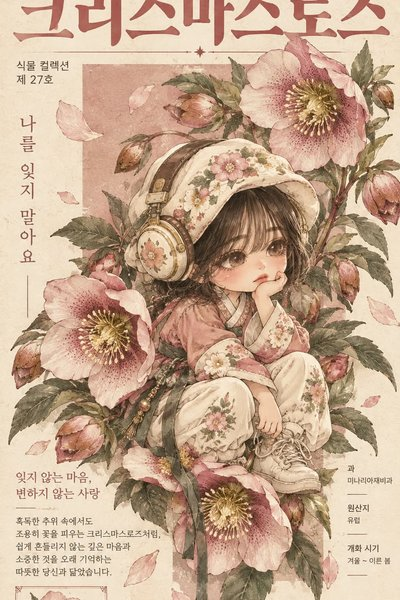
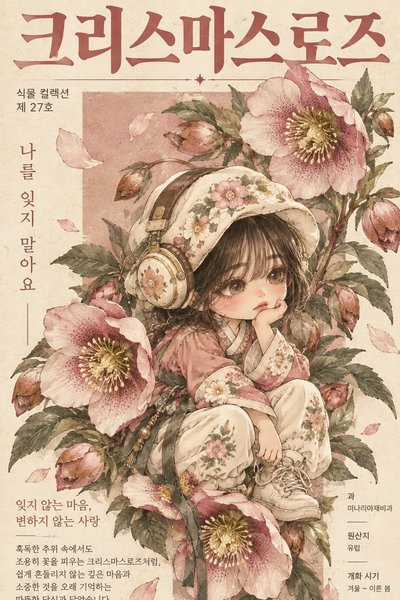
docs: 화이트 수트 프롬프트 및 결과 추가 (150번)
- 프롬프트 문서와 Gemini/GPT 결과 이미지 추가
- README 갤러리, 사이트 data.js, 썸네일 갱신
- 149번 썸네일을 포스터 제목이 보이도록 다시 생성

diff --git a/data.js b/data.js
@@ -1,5 +1,6 @@
 // 갤러리 목록. 새 항목은 맨 위에 한 줄 추가하고 thumbs/gpt/NN.jpg, thumbs/gemini/NN.jpg 썸네일(600x750)을 넣는다.
 window.GALLERY = [
+  {"n": 150, "name": "화이트 수트", "desc": "순백 수트와 실버 롱헤어, 황금 권총을 겨눈 세미실사 포트레이트", "dir": "화이트 슈트", "doc": "White_Suit_Golden_Pistol_Portrait_Prompt.md", "gemini": "제미나이.jpg", "gpt": "GPT.jpg", "prompt": "[세미실사 아트 – 화이트 수트 황금 권총 포트레이트 / 얼굴 합성용 템플릿]\n\n■ 업로드 사진 사용 규칙 (가장 중요)\n- 업로드한 사진은 얼굴 참고용으로만 사용한다.\n- 사진에서는 눈·코·입의 생김새만 가져온다.\n- 얼굴형, 피부, 헤어, 이마, 헤어라인은 사진에서 가져오지 않는다. 모두 아래 서술대로 그린다.\n- 눈동자 색은 사진을 따르지 않고 아래 서술대로 그린다.\n- 사진 속 머리 각도, 고개 기울기, 얼굴 방향, 시선은 절대 가져오지 않는다. 각도와 시선은 아래 포즈 서술을 따른다.\n- 표정은 사진을 따르지 않고, 아래 표정 서술대로 새로 그린다.\n- 얼굴을 제외한 구도, 각도, 헤어, 의상, 배경, 조명은 아래 서술에서 하나도 바뀌면 안 된다.\n- 인물은 항상 여성으로 그린다. 업로드 사진이 남자여도 눈·코·입의 특징만 살려 여성으로 그린다.\n- 업로드 사진에 안경이나 선글라스가 있어도 절대 그리지 않는다. 안경을 벗은 맨얼굴로 그리고, 눈은 안경 렌즈 왜곡 없이 원래 크기와 모양으로 그린다.\n\n■ 분위기\n- 스스로를 정의라고 굳게 믿는 심판자다. 하지만 그 정의는 오직 자기만의 기준이라 누구도 말릴 수 없다.\n- 흔들림 없는 확신, 망설임 없는 냉정함, 자비 없는 차분함이 느껴져야 한다.\n- 순백의 정장과 황금 권총이 성스러워 보이지만, 그래서 더 위험하고 섬뜩한 분위기다.\n\n■ 화풍\n- 실사 90%, 디지털 페인팅 10%의 실사에 가까운 세미실사다.\n- 얼굴, 피부, 머리카락, 원단은 실제 사진처럼 사실적으로 표현한다. 피부 모공과 결, 머리카락 한 올 한 올, 새틴 원단의 광택, 은색 장식과 황금 권총의 금속 반사까지 실사 수준으로 묘사한다.\n- 일러스트 느낌은 피부 표면의 아주 미세하게 매끈한 보정감에만 살짝 남긴다.\n- 하이엔드 화보, 시네마틱 인물 사진 퀄리티로 표현한다. 85mm 렌즈, 얕은 심도 느낌이다.\n- 인물은 화이트·실버에 안쪽 셔츠만 블랙이고, 배경은 어두운 차콜이다. 색 포인트는 황금색 눈동자와 황금 권총, 연한 코랄 립뿐이다.\n\n■ 구도\n- 세로 9:16 비율이다.\n- 머리끝부터 허벅지 중간까지 보이는 3/4 샷이다. 인물이 화면 중앙에 크게 들어온다.\n- 8.5등신 비율이다. 머리 하나 크기 대비 전신이 8.5배인 길고 늘씬한 모델 비율로 그린다.\n- 얼굴이 작게 나오는 구도지만, 얼굴을 처음부터 작게 그리지 않는다. 얼굴을 크고 정밀하게 완성한 뒤 비율 그대로 축소해 8.5등신에 맞게 배치한다. 축소된 뒤에도 이목구비가 또렷해야 한다.\n\n■ 체형\n- 키가 크고 다리가 아주 긴 8.5등신 여성 체형이다.\n- 볼륨 있는 글래머 몸매다. 풍만한 가슴, 잘록한 허리, 둥글게 이어지는 골반과 허벅지 곡선을 강조한다.\n- 조끼가 가슴 볼륨을 따라 몸에 딱 맞게 핏되고, 허리는 잘록하게 조여 굴곡이 또렷하게 드러난다.\n- 슬랙스는 골반과 허벅지 라인을 따라 매끈하게 떨어진다.\n- 목은 길고 가늘며, 어깨와 팔은 가늘고 여성스럽다.\n\n■ 포즈\n- 정면을 향해 서 있다. 몸통은 아주 살짝 비스듬하다.\n- 화면 왼쪽 팔(인물의 오른팔)을 보는 사람 쪽으로 곧게 뻗어 황금 권총을 한 손으로 겨눈다. 총구가 정면의 보는 사람을 향한다.\n- 권총을 쥔 손은 원근감으로 살짝 크게 보이며, 검지는 방아쇠울 옆에 곧게 펴서 걸친다. 손가락은 다섯 개로 자연스럽고 정확하게 그린다.\n- 다른 팔은 몸 옆으로 자연스럽게 내리고 손끝을 가볍게 편다.\n- 고개는 정면에서 아주 살짝 기울이고 턱을 약간 든다.\n- 시선은 권총 너머로 카메라(보는 사람)를 똑바로 응시한다.\n\n■ 표정\n- 눈꺼풀을 살짝 내린 차갑고 흔들림 없는 눈빛이다.\n- 입꼬리만 아주 옅게 올라간 평온한 미소다. 자신이 옳다고 확신하는 사람의 여유다.\n- 분노나 광기 없이 담담한데, 그 담담함이 오히려 섬뜩하다.\n\n■ 눈\n- 녹인 금처럼 깊고 선명한 황금색 눈동자다. 빛을 받아 은은하게 빛나고, 홍채에 가는 금빛 결이 보인다.\n\n■ 메이크업\n- 창백하고 투명한 피부톤\n- 은빛이 도는 은은한 아이섀도와 가는 아이라인\n- 연한 코랄 립, 촉촉한 광택\n\n■ 헤어\n- 허리 아래까지 내려오는 아주 긴 실버화이트 머리다. 차분한 생머리에 끝만 살짝 흩어진다.\n- 눈썹을 살짝 덮는 가벼운 앞머리와 얼굴 양옆으로 길게 내려오는 옆머리가 있다.\n- 바람에 머리카락이 양옆과 뒤로 넓게 흩날린다.\n- 머리카락은 실제 모발처럼 윤기와 잔머리가 살아 있고, 빛을 받은 부분은 은색으로 반짝인다.\n\n■ 무기\n- 황금색 자동 권총이다. 슬라이드와 몸체 전체가 광택 나는 금으로 되어 있다.\n- 슬라이드 옆면에 섬세한 덩굴·십자 문양 인그레이빙이 새겨져 있다.\n- 손잡이는 하얀 진주빛 그립이다.\n- 실제 금속처럼 무게감 있고 날카로운 반사광이 맺힌다.\n\n■ 액세서리\n- 양쪽 귀에 길게 늘어지는 은색 십자가 모양 드롭 귀걸이를 한다. 실제 금속처럼 반짝인다.\n- 얼굴에는 안경 등 어떤 액세서리도 착용하지 않는다.\n\n■ 의상 (화이트 수트 + 블랙 셔츠 + 실버 장식)\n- 검은 드레스 셔츠: 뾰족한 칼라, 맨 위 단추까지 채움, 은은한 광택의 실크 질감. 하얀 조끼와 재킷 사이로 검은 칼라와 가슴 부분이 선명하게 대비된다.\n- 은회색 실크 넥타이: 은색 십자별 모양 타이핀을 꽂음\n- 하얀 조끼: 몸에 딱 맞는 크롭 기장, 가장자리에 은색 파이핑, 은색 둥근 금속 단추 4개, 양옆 허리 부분에 은색 필리그리 금속 장식, 조끼 밑단과 바지 사이로 허리 맨살이 아주 살짝 보임\n- 하얀 롱 재킷: 앞을 연 채로 입음, 무릎 근처까지 오는 긴 코트 기장, 라펠과 가장자리에 은색 파이핑, 어깨와 가슴 양쪽에 은색 별·십자 문장 자수, 소매 끝에 은색 띠 장식 두 줄\n- 허리: 하얀 가죽 벨트, 은색 별 모양 장식 버클\n- 하의: 하이웨이스트 하얀 슬랙스, 앞 주름이 선명함\n- 수트 원단은 광택 있는 새틴 질감이다.\n\n■ 배경\n- 장식이나 사물이 전혀 없는 단순한 배경이다.\n- 짙은 차콜에서 가장자리로 갈수록 블랙이 되는 부드러운 그라데이션이다.\n- 인물 뒤쪽만 아주 은은하게 밝아 하얀 인물이 어둠 속에서 떠오르듯 보인다.\n\n■ 조명\n- 정면 위에서 오는 차갑고 부드러운 흰빛 키라이트다.\n- 하얀 의상과 실버 헤어가 어둠 속에서 은은하게 빛나 보인다.\n- 머리카락과 어깨 윤곽에 은은한 흰빛 림라이트를 준다.\n- 황금 권총과 황금 눈동자에 작고 선명한 하이라이트가 맺힌다.\n- 얼굴 아래쪽과 목에 옅은 그림자를 드리워 차가운 긴장감을 더한다.\n\n■ 금지\n- 안경, 선글라스, 안경 자국\n- 하얀 셔츠\n- 마법진, 빛 입자, 별 장식 등 배경 속 사물이나 효과\n- 사진 속 각도·표정·헤어·눈동자 색 반영\n- 얼굴을 처음부터 작고 뭉개지게 그리기\n- 머리가 큰 비율, 짧은 다리\n- 마르고 평평한 체형, 남성적인 어깨와 체형\n- 손가락 개수 오류, 뒤틀린 손, 총을 잘못 쥔 손\n- 활짝 웃는 표정, 광기 어린 표정, 화난 표정\n- 애니메이션·만화 느낌, 플라스틱 같은 매끈한 피부, 과한 일러스트 붓 터치\n- 피, 상처, 텍스트, 로고, 워터마크"},
   {"n": 149, "name": "나의 꽃 요정", "desc": "나에게 어울리는 꽃과 꽃말의 식물 도감풍 한복 미니미 포스터", "dir": "나의 꽃요정", "doc": "My_Flower_Botanical_Poster_Hanbok_Minimi_Prompt.md", "gemini": "제미나이.jpg", "gpt": "GPT.jpg", "prompt": "[작업 순서]\n\n1. 지금까지 나눈 대화, 저장된 기억, 나에 대해 알고 있는 모든 정보(성격, 직업, 취미, 관심사, 말투, 가치관, 생활 패턴)와 업로드한 사진의 인상을 종합해서 분석한다.\n2. 분석 결과로 나와 가장 어울리는 꽃 한 가지와 그 꽃의 꽃말을 정한다.\n- 한복 차림, 동양풍 화풍, 한글 이름 표기 규칙은 꽃 선택에 전혀 영향을 주지 않는다. 한글 이름 규칙은 표기 방법일 뿐이며, 꽃은 전 세계 모든 꽃 중에서 고른다.\n- 가장 먼저 떠오르는 흔한 꽃을 기본값으로 고르지 말 것\n- 동양 전통 그림에 자주 등장하는 꽃으로 쏠리지 말 것\n- 꽃을 고르기 전에 계절, 원산지, 색이 서로 다른 후보 5개를 속으로 먼저 떠올린 뒤, 분석 결과와 가장 구체적으로 맞는 하나를 고른다.\n- 꽃말은 실제로 알려진 꽃말을 사용하고, 성실함, 인내, 고결함처럼 누구에게나 해당되는 무난한 의미보다 이 사람만의 구체적인 특징과 맞는 꽃말을 우선한다.\n- 꽃 이름은 반드시 한국에서 쓰는 한글 이름으로 표기한다. 외국어 이름을 소리 나는 대로 옮긴 표기(외래어 표기)는 사용하지 않는다.\n- 순우리말 이름이나 한국 고유 이름이 있는 꽃은 반드시 그 이름을 쓰고, 한글 이름이 전혀 없는 꽃일 때만 외래어 표기를 허용한다. 과 이름도 같은 규칙으로 한글 이름을 쓴다.\n3. 대화창에 아래 내용을 먼저 짧게 보여준다.\n- 선택한 꽃(한글 이름) / 꽃말 / 나와 어울리는 이유 2~3줄\n4. 질문하지 말고 바로 아래 포스터를 이미지로 생성한다.\n\n[업로드 사진 사용 규칙 - 매우 중요]\n\n- 업로드 사진에서는 눈, 코, 입의 생김새만 가져온다.\n- 얼굴형, 피부, 헤어, 이마와 헤어라인은 사진에서 가져오지 않는다.\n- 사진 속 고개 기울기, 얼굴 방향, 시선, 표정은 절대 가져오지 않는다. 각도와 표정은 아래 서술대로 새로 그린다.\n- 사진 속 인물이 안경을 쓰고 있으면 안경만 유지한다.\n- 사진 속 옷, 배경, 소품은 사용하지 않는다.\n- 미니미로 바뀌어도 눈·코·입의 특징이 살아 있어 본인임을 알아볼 수 있게 한다.\n\n[화풍]\n현대 한국 일러스트 화풍. 가늘고 섬세한 갈색 먹선으로 윤곽과 꽃잎 결, 옷 주름을 그리고, 그 위에 채도를 낮춘 바랜 수채 물감을 얇게 입힌 그림. 빈티지 종이 위에 그린 듯한 은은한 색 바램과 종이 질감. 강한 명암 없이 평면적이고 부드러운 음영. 옷의 문양과 꽃잎 결은 가는 선으로 촘촘하게 묘사. 3D, 실사, 반실사 금지.\n\n[미니미 인물 - 고정]\n\n- 2.5등신 정도의 아담한 어린아이 체형 미니미, 성별과 관계없이 같은 차림\n- 헤어: 검은색 짧은 단발, 앞머리가 이마를 가린 일자 뱅, 모자 아래로 살짝 보임\n- 머리: 둥근 바가지형 천 모자, 크림색 바탕에 선택한 꽃 문양 자수\n- 모자 위로 둥근 레트로 헤드폰을 쓰고 있음, 크림색과 금빛 이어컵, 갈색 가죽 밴드\n- 저고리: 넉넉한 품의 짧은 저고리, 색은 선택한 꽃의 색을 바랜 수채 톤으로 낮춘 색, 크림색 동정과 깃, 소매 끝은 꽃 문양 천으로 덧댐\n- 바지: 통이 넓은 크림색 한복 바지, 발목에서 오므려짐, 무릎에 꽃 문양 덧댐\n- 허리: 꽃 문양 천 허리띠, 짙은 녹회색 긴 끈이 늘어짐\n- 신발: 낡은 크림색 하이탑 운동화, 끈 묶음, 밑창에 살짝 때 탄 느낌\n- 포즈: 몸은 오른쪽을 향해 쪼그려 앉아 있고, 한쪽 팔꿈치를 무릎에 올려 손등에 턱을 괸 자세. 다른 손은 아래로 내려 운동화 끈 또는 늘어진 끈을 가볍게 쥠\n- 얼굴 각도: 얼굴이 잘 보이도록 오른쪽을 향한 3/4 측면, 시선은 살짝 아래로\n- 표정: 무심하고 차분하게 생각에 잠긴 표정, 입은 다물고 볼에 옅은 홍조\n\n[포스터 전체 구성]\n세로형 포스터(9:16 비율). 따뜻한 아이보리 크림색 종이 배경. 포스터 안의 모든 글자는 한글로만 작성한다. 영어, 알파벳, 학명, 라틴어는 절대 넣지 않는다.\n\n[색상]\n포인트 컬러는 선택한 꽃의 색을 깊고 차분하게 낮춘 색. 제목 글자, 중앙 사각 블록, 장식선, 액자 테두리, 저고리 색을 모두 이 계열로 통일. 꽃잎은 바랜 수채 톤, 잎은 탁한 녹회색.\n\n[레이아웃 - 위치 고정]\n\n1. 상단: 포스터 폭을 가득 채우는 큰 굵은 한글 명조체 제목, 선택한 꽃의 한글 이름(외래어 표기 금지). 길면 두 줄. 포인트 컬러.\n2. 제목 아래 왼쪽: 작은 고딕체 두 줄 — \"식물 컬렉션\" / \"제 ○호\"\n3. 중앙: 포인트 컬러를 연하게 한 단색 사각형 블록이 세로로 길게 놓임.\n4. 꽃과 미니미: 선택한 꽃이 핀 줄기(또는 가지)가 왼쪽 아래에서 오른쪽 위로 뻗고, 크게 핀 꽃 여러 송이와 봉오리, 잎이 사각 블록 밖까지 넘쳐 흐르듯 배치. 꽃의 모양, 꽃잎 수, 잎 모양, 줄기 형태는 선택한 꽃의 실제 생김새를 정확히 따른다. 미니미는 화면 중앙의 줄기 위(또는 꽃 사이)에 쪼그려 앉아 있고, 미니미 주변과 발밑을 큰 꽃송이들이 감싼다. 꽃은 미니미보다 크게 그려 꽃 속의 작은 아이처럼 보이게 하되, 미니미의 얼굴이 포스터에서 가장 먼저 눈에 띄게 한다. 꽃잎 몇 장이 공중에 흩날림.\n5. 왼쪽 세로 문구: 왼쪽 가장자리에 세로로 회전된 기울임 명조체로 꽃말 한 줄, 아래 짧은 가로선.\n6. 왼쪽 아래 설명 블록:\n- 작은 고딕체 두 줄: 꽃말을 압축한 짧은 문구\n- 짧은 가로선\n- 명조체 본문 4~5줄: 꽃말의 의미와 그것이 나와 닮은 점을 한글로 짧게\n7. 오른쪽 정보 블록 (작은 고딕체, 항목 사이 짧은 가로선):\n- 과: (한글 이름) / 원산지: (한글) / 개화 시기: (한글 계절)\n8. 왼쪽 맨 아래: 포인트 컬러 얇은 테두리의 작은 정사각형 액자 안에 같은 화풍으로 그린 꽃 한 송이.\n9. 오른쪽 맨 아래: 자간을 넓힌 작은 명조체 두 줄 — 꽃말을 시처럼 줄인 문구 / 더 작은 글씨로 \"○○ 에디션\" (○○에는 내 이름)\n\n[글자 품질]\n\n- 모든 한글은 맞춤법이 정확하고 자모가 깨지지 않게 또렷하게\n- 문구는 짧게 유지\n- 글자가 미니미 얼굴이나 꽃과 겹치지 않게 배치\n\n[금지]\n\n- 영어, 알파벳, 학명 금지\n- 한글 이름이 있는 꽃을 외래어 표기로 쓰는 것 금지\n- 사진 속 고개 각도, 시선, 표정, 헤어, 옷 반영 금지\n- 실사, 3D, 반실사 금지\n- 미니미 외 다른 인물 등장 금지"},
   {"n": 148, "name": "스테인드글라스", "desc": "고딕 대성당 스테인드글라스 속 중세 인물과 바닥에 떨어진 색유리 빛", "dir": "스테인드글라스", "doc": "Gothic_Stained_Glass_Medieval_Figure_Prompt.md", "gemini": "", "gpt": "GPT.jpg", "prompt": "첨부한 사진 속 인물(또는 동물)을 12~13세기 고딕 대성당 스테인드글라스에 그려진 중세 인물로 만들고, 그 창문을 통과한 빛이 성당 바닥에 떨어지는 장면을 그려줘.\n\n[사진에서 가져올 것과 가져오지 않을 것]\n- 가져오는 것: 눈·코·입의 생김새, 얼굴형, 머리색, 성별, 대략적인 나이, 안경 유무\n- 가져오지 않는 것: 사진 속 옷, 배경, 포즈, 고개 기울기와 방향, 시선, 표정, 조명\n- 표정은 사진을 따르지 않고, 중세 성화 인물 특유의 고요하고 경건한 표정으로 새로 그린다.\n\n[닮음 – 가장 중요]\n- 그리기 전에 사진 속 얼굴을 먼저 꼼꼼히 분석한다. 눈꼬리 방향, 쌍꺼풀 유무와 모양, 눈 크기와 두 눈 사이 간격, 눈썹 모양과 굵기, 콧대 높이와 코끝·콧볼 너비, 인중 길이, 입술 두께와 입 너비, 광대와 턱선, 얼굴 길이와 너비 비율을 파악한다.\n- 분석한 특징을 그리자이유 선으로 그대로 옮긴다. 중세 화풍으로 단순화하더라도 이 특징들의 형태와 비율은 바꾸지 않는다.\n- 사진 속 사람보다 예쁘게 다듬거나, 눈을 키우거나, 얼굴을 갸름하게 바꾸지 않는다. 흔한 미인 얼굴이나 애니메이션 얼굴로 만들지 않는다.\n- 얼굴은 처음부터 작게 그리지 않는다. 얼굴을 크게 그려 이목구비를 정확히 완성한 뒤, 비율을 그대로 유지한 채 인물 크기에 맞게 축소한다.\n- 그리자이유는 얼굴에만 더 세밀하게 쓴다. 눈두덩, 콧대 옆, 입꼬리, 턱 아래에 얇은 음영 붓터치를 넣어 입체와 특징이 드러나게 한다.\n- 안경을 쓴 인물이면 사진 속 안경테 모양에 가까운 중세 리벳식 둥근 안경을 씌운다.\n\n[전체 장면]\n- 세로 9:16 구도로, 어두운 고딕 대성당 내부를 정면에서 바라본다.\n- 화면 위쪽 약 3분의 2는 거대한 고딕 아치형 스테인드글라스 창문이다. 꼭대기에는 둥근 장미창이 있고, 그 아래로 가운데 넓은 창과 양옆의 좁은 창이 이어진다.\n- 창문 양옆에는 붉은 사암으로 된 묶음 기둥과 뾰족 아치가 있다. 벽은 그늘 속에 묻혀 어둡다.\n- 화면 아래쪽 약 3분의 1은 오래되어 금이 가고 닳은 큰 석판 바닥이다.\n\n[창문 속 중세 인물]\n- 사진 속 인물의 인상과 분위기를 보고, 중세 시대에 어떤 신분과 역할의 인물이었을지 AI가 직접 정한다.\n- 그 신분에 맞는 중세 복식, 머리 장식, 손에 든 상징물을 갖춘 무릎 위 입상으로, 가운데 넓은 창을 가득 채운다. 얼굴이 창문 안에서 충분히 크게 보여야 한다.\n- 인물은 정면을 향해 똑바로 서 있고, 자세는 경건하고 정적이다. 머리 뒤에는 둥근 금빛 후광이 있다.\n- 피부는 연한 살구색·아이보리 유리이고, 눈, 눈썹, 코, 입, 얼굴 윤곽, 옷 주름은 갈색·검은 안료로 붓으로 그린 그리자이유 선으로 표현한다.\n- 양옆 좁은 창은 중세 고딕 창의 원형·사엽형 메달리온 무늬와 덩굴무늬로 채운다.\n- 모든 색 영역은 독립된 색유리 조각이고, 조각 사이는 굵고 일정한 검은 납선으로 연결된다. 납선은 얼굴의 이목구비를 가로지르지 않고 얼굴 윤곽선을 따라서만 지나간다.\n- 한 조각 안에는 그라데이션이 없고, 손으로 만든 중세 유리의 기포, 물결, 고르지 않은 두께가 보인다.\n- 색은 중세 유리의 깊은 코발트 블루와 루비 레드를 중심으로, 에메랄드 그린, 앰버 옐로, 자줏빛을 더한다.\n\n[빛줄기]\n- 창문 뒤 높은 곳에서 강한 오후 햇살이 비스듬히 내려와 유리가 안에서부터 타오르듯 빛난다.\n- 성당 안 공기 중의 먼지 때문에 창문에서 카메라 쪽 바닥으로 내려오는 굵은 빛줄기가 선명하게 보이고, 빛줄기는 유리 색을 머금고 있다.\n\n[바닥에 떨어진 빛]\n- 바닥에 맺힌 빛 그림은 창문 그림과 위아래가 반대로 뒤집혀 있다. 창문 위쪽(장미창, 후광, 머리)의 빛은 창문에서 먼 곳, 즉 카메라 가까운 화면 아래쪽에 떨어진다. 창문 아래쪽(인물의 무릎, 옷자락)의 빛은 창문 바로 앞 바닥에 떨어진다.\n- 카메라에서 보면 바닥 위 인물은 거꾸로 누워 있는 모습이다. 후광과 얼굴이 화면 맨 아래 가까이 있고, 옷자락이 창문 쪽을 향한다.\n- 좌우는 뒤집히지 않는다. 창문 왼쪽의 빛은 바닥 왼쪽에, 오른쪽의 빛은 바닥 오른쪽에 떨어진다.\n- 바닥 빛 그림은 원근 때문에 카메라 쪽으로 갈수록 길게 늘어나고 커진다. 가장자리는 살짝 부드럽게 번지지만, 후광과 인물 실루엣, 얼굴 위치는 알아볼 수 있다.\n- 빛은 석판의 금과 이음새를 따라 끊기고 번진다. 가장 밝은 부분은 하얗게 날아갈 정도로 강하다.\n\n[분위기와 화질]\n- 성당 내부는 어둡고, 빛은 창문, 빛줄기, 바닥에만 집중된다. 명암 대비가 강하다.\n- 성당, 빛, 바닥은 고해상도 실사 사진처럼 그리고, 창문 속 인물만 중세 스테인드글라스다.\n\n[금지]\n- 사진 속 얼굴과 다른 사람처럼 보이는 얼굴, 미화된 얼굴, 애니메이션풍 큰 눈 금지\n- 현대 옷, 현대 헤어스타일 금지\n- 창문 속 인물을 실사 사람이나 현대 일러스트처럼 그리는 것 금지\n- 바닥 빛 그림이 창문 그림과 같은 방향으로 바로 서 있는 것 금지\n- 성당 안에 사람 배치 금지\n- 글자, 서명, 워터마크 금지"},
   {"n": 147, "name": "동화 주인공 아이돌", "desc": "인상에 맞는 동화 주인공을 K-pop 아이돌로 재해석한 앨범 콘셉트 포토", "dir": "아이돌공주", "doc": "Fairytale_Idol_Concept_Photo_Prompt.md", "gemini": "", "gpt": "GPT.jpg", "prompt": "[Purpose]\nIdentify which fairytale protagonist the person in the uploaded face photo matches, then reinterpret that protagonist as a K-pop idol in stage costume and create one K-pop idol concept photo with a designed text layout that shows the result and the reason for the selection. Use the uploaded photo only as a face reference; everything else must be newly created exactly as described below.\n\n[Output Rule]\n\n- Do not write any explanation in the chat. Generate the image immediately without asking for confirmation.\n- The selection result and reason must appear only inside the image, following the text layout section below.\n\n[Step 1: Choose the Fairytale Protagonist]\n\n- Analyze the person's eye shape, eye corners, eyebrow line, nose and mouth shape, facial lines, overall impression, vibe, gender, and age range in concrete detail.\n- Do NOT use the person's hair color or skin tone as a reason for the choice. Hair and outfit will be completely redesigned anyway, so dark hair or fair skin must never lead to a specific protagonist.\n- Based on the facial-feature analysis only, mentally list at least 10 candidate protagonists of the matching gender, each from a different fairytale. At least half of the candidates must come from fairytales outside the Grimm, Perrault, and Andersen collections, drawn from many different countries and regions.\n- From the candidates, pick the one whose connection to the analyzed facial features and impression is the most specific. Do not choose because a character is \"the most famous,\" \"the safest choice,\" or \"easy to turn into an idol outfit.\"\n- Completely exclude Snow White and Little Red Riding Hood from the candidates.\n- Do not limit the choice to princess characters.\n- If the person is male, choose a male protagonist; if female, a female protagonist. Male subjects must be rendered in the same style (K-pop idol concept photo) with the same level of polish.\n\n[Step 2: Recognizability - Critical]\n\n- A viewer must recognize which protagonist this is at a glance, even with the title text covered.\n- Before designing, identify the protagonist's most widely recognized visual signatures: (a) signature color combination and where each color sits on the outfit, (b) signature hairstyle, hair length, and hair color, (c) signature headwear or hair ornament, (d) signature prop, (e) key story motifs (objects, creatures, places).\n- Apply every one of them:\n- The outfit's color palette must follow the signature color combination, with each color in the same position (top, bottom, outer layer, accents) as in the widely known image. Do not replace it with a different palette.\n- Keep the signature hairstyle shape, length, and hair color, restyled with an idol-level glossy finish. Do not change it into a different hairstyle.\n- The signature headwear or hair ornament must be worn and clearly visible.\n- The signature prop must be held in the hand, clearly visible near chest height.\n- The background set must show at least two key story motifs clearly enough to be identified.\n- Generic decorations unrelated to this protagonist must not dominate the image.\n\n[Step 3: Costume Rules - K-pop Idol Stage Outfit]\n\n- Do not dress the person in the original fairytale costume. Keep the signature colors, color placement, and motifs, and rebuild them with the structure of a modern K-pop idol stage outfit.\n- No ball gowns, no full-length princess skirts, no lolita-style layered frill skirts. Use idol stage-costume construction: structured cropped jackets or corset tops, short skirts or tailored shorts or pants, harness or belt details, and stage boots.\n- Polish level as if made by a real idol stylist: layering, structured silhouettes, intricate embroidery, metal hardware details, and materials that sparkle under stage lights.\n- Women follow a girl-group stage outfit silhouette; men follow a boy-group stage outfit silhouette.\n- Keep exposure modest, at the level of a typical TV music show stage. No garter straps, no lingerie-like elements, no deep necklines.\n\n[Hair and Makeup]\n\n- Hair follows the Recognizability rules above, with a neat, glossy idol styling finish.\n- K-pop idol stage makeup: defined eyeliner, subtle glitter under the eyes, clear and luminous skin, glossy lips. Male subjects also get male idol stage makeup.\n\n[Face Handling Rules - Critical]\n\n- Take only the shapes of the eyes, nose, and mouth from the uploaded photo.\n- Do not take the face shape, skin, hair, forehead, or hairline from the photo.\n- Never copy the head or face angle from the photo (head tilt, face direction, gaze). Draw the angle and gaze fresh according to the composition section below.\n- Do not copy the facial expression from the photo either; draw it fresh according to the expression section below.\n- If the person wears glasses in the photo, remove the glasses completely and draw a bare face without glasses. Leave no glasses marks, nose-pad marks, or lens reflections, and draw the eyes in their true shape without any size distortion caused by lenses.\n- Do not draw the face small from the start. Complete the face large and sharp first, then scale it down proportionally onto a 9-head-tall idol body. The features must remain crisp and not blurred after scaling.\n\n[Composition and Pose]\n\n- Vertical frame, three-quarter shot showing from above the knees up.\n- The person stands upright, slightly right of center, leaving clean space on the left side and at the bottom for the text layout. Do not lean, crouch, or sit.\n- The body is angled slightly from the front; the head is straight with no tilt, and the face and gaze look directly at the camera.\n- One hand holds the signature prop at chest height; the other hand rests on the waist.\n- Place the face so it is the first thing the eye is drawn to. No text may overlap the face, the upper body, or the prop.\n\n[Expression]\n\n- A confident idol concept-photo expression: lips closed with a subtle smile and slightly raised mouth corners, and a clear, direct gaze into the camera. No parted lips, no pouting.\n\n[Background and Lighting]\n\n- An idol album concept photo set built from the chosen fairytale's world and its key story motifs. It should look like a designed set, not a real location.\n- Colored lighting using the protagonist's signature colors, light haze, and clean beauty lighting on the face.\n- Keep the background slightly softer than the person, but keep the story motifs identifiable.\n\n[Text Layout in Image - Album Concept Card Style]\nDesign the text like a K-pop album concept photo or teaser poster: clean, minimal, and stylish, with generous spacing. Use only the following four text elements, in these positions:\n\n1. Top left, small: the label \"FAIRYTALE IDOL\" in thin, widely letter-spaced sans-serif capitals, white or the key color.\n2. Left side, large: the chosen protagonist's name in English as the main title, in an elegant bold serif or modern display font, in the protagonist's signature color with a subtle glow. It may be stacked on two lines.\n3. Directly under the title, small: the fairytale title in Korean, in a clean Korean sans-serif font.\n4. Bottom, on a thin semi-transparent dark band spanning the width: the selection reason as one short Korean sentence of no more than 25 characters, in a clean Korean sans-serif font, white, centered. The sentence must mention a facial feature or impression, never hair color or skin tone.\n\n- Add one thin decorative line or small star or sparkle mark near the title as a design accent, nothing more.\n- All Korean text must be spelled correctly, with sharp, legible letters and no broken or invented characters.\n- No other text, logos, barcodes, or watermarks.\n\n[Style and Quality]\n\n- A high-resolution photorealistic image that looks like a real K-pop idol album jacket or concept teaser poster.\n- Smooth retouching, sharp focus, and color grading at the level of a high-end fashion editorial.\n- The text layout must look like professional graphic design that blends with the photo's color mood."},

diff --git a/index.html b/index.html
@@ -351,7 +351,7 @@ dialog::backdrop { background: rgba(22, 21, 19, 0.72); backdrop-filter: blur(4px
 </dialog>
 
 <!-- data.js를 고치면 v 값을 올려야 브라우저가 새로 받는다 -->
-<script src="./data.js?v=67"></script>
+<script src="./data.js?v=68"></script>
 <script>
 (function () {
   var items = window.GALLERY || [];

diff --git a/화이트 슈트/White_Suit_Golden_Pistol_Portrait_Prompt.md b/화이트 슈트/White_Suit_Golden_Pistol_Portrait_Prompt.md
@@ -1,0 +1,153 @@
+# 화이트 수트 황금 권총 세미실사 포트레이트 프롬프트
+
+## 1. 개요 및 아트 디렉팅 가이드
+
+- **컨셉**: 순백의 수트에 실버화이트 롱헤어, 황금색 눈동자의 여성이 보는 사람을 향해 황금 권총을 겨누는 3/4 샷. 어두운 차콜 배경 위에 화이트·실버와 황금색만 남긴 세미실사 포트레이트 (세로 9:16)
+- **업로드 사진 사용 규칙 (가장 중요)**:
+  - 사진에서는 눈·코·입의 생김새만 가져오고, 얼굴형·피부·헤어·눈동자 색·각도·시선·표정은 프롬프트 서술대로 새로 그림
+  - 인물은 항상 여성으로 그림. 사진이 남성이어도 눈·코·입의 특징만 살려 여성으로 표현
+  - 사진에 안경이나 선글라스가 있어도 그리지 않고 맨얼굴로 표현
+- **분위기**: 스스로를 정의라고 굳게 믿는 심판자. 흔들림 없는 확신과 자비 없는 차분함, 성스러워 보여서 더 위험하고 섬뜩한 느낌
+- **화풍**:
+  - 실사 90%, 디지털 페인팅 10%의 실사에 가까운 세미실사
+  - 피부 결, 머리카락 한 올, 새틴 원단의 광택, 은색 장식과 황금 권총의 금속 반사까지 실사 수준으로 묘사
+  - 하이엔드 화보 퀄리티, 85mm 렌즈의 얕은 심도 느낌
+- **구도 & 체형**:
+  - 머리끝부터 허벅지 중간까지의 3/4 샷, 8.5등신의 길고 늘씬한 모델 비율
+  - 얼굴을 크고 정밀하게 완성한 뒤 비율 그대로 축소해 배치하여, 작게 나와도 이목구비가 또렷하게 유지
+- **포즈 & 표정**:
+  - 한 팔을 보는 사람 쪽으로 곧게 뻗어 황금 권총을 겨누고, 검지는 방아쇠울 옆에 곧게 펴서 걸침
+  - 턱을 약간 들고 권총 너머로 카메라를 똑바로 응시
+  - 눈꺼풀을 살짝 내린 차가운 눈빛과 입꼬리만 아주 옅게 올라간 평온한 미소
+- **눈 & 헤어 & 메이크업**: 녹인 금처럼 깊고 선명한 황금색 눈동자, 허리 아래까지 내려와 바람에 넓게 흩날리는 실버화이트 생머리, 창백한 피부톤과 연한 코랄 립
+- **무기 & 액세서리**: 덩굴·십자 문양 인그레이빙과 하얀 진주빛 그립의 황금색 자동 권총, 길게 늘어지는 은색 십자가 드롭 귀걸이
+- **의상**:
+  - 검은 실크 드레스 셔츠와 은회색 실크 넥타이, 십자별 모양 타이핀
+  - 은색 파이핑과 필리그리 장식이 있는 몸에 딱 맞는 하얀 크롭 조끼
+  - 은색 별·십자 문장 자수가 놓인 무릎 근처 기장의 하얀 롱 재킷, 하얀 가죽 벨트와 하이웨이스트 하얀 슬랙스
+- **배경 & 조명**: 사물이 전혀 없는 짙은 차콜에서 블랙으로 이어지는 그라데이션, 정면 위에서 오는 차갑고 부드러운 흰빛 키라이트와 은은한 림라이트, 황금 권총과 눈동자에 맺히는 선명한 하이라이트
+- **금지**: 안경과 선글라스, 하얀 셔츠, 배경 속 마법진·빛 입자 같은 효과, 손가락 개수 오류, 활짝 웃거나 화난 표정, 애니메이션·만화 느낌, 피·상처·텍스트·로고·워터마크
+
+---
+
+## 2. 프롬프트 전문
+
+```text
+[세미실사 아트 – 화이트 수트 황금 권총 포트레이트 / 얼굴 합성용 템플릿]
+
+■ 업로드 사진 사용 규칙 (가장 중요)
+- 업로드한 사진은 얼굴 참고용으로만 사용한다.
+- 사진에서는 눈·코·입의 생김새만 가져온다.
+- 얼굴형, 피부, 헤어, 이마, 헤어라인은 사진에서 가져오지 않는다. 모두 아래 서술대로 그린다.
+- 눈동자 색은 사진을 따르지 않고 아래 서술대로 그린다.
+- 사진 속 머리 각도, 고개 기울기, 얼굴 방향, 시선은 절대 가져오지 않는다. 각도와 시선은 아래 포즈 서술을 따른다.
+- 표정은 사진을 따르지 않고, 아래 표정 서술대로 새로 그린다.
+- 얼굴을 제외한 구도, 각도, 헤어, 의상, 배경, 조명은 아래 서술에서 하나도 바뀌면 안 된다.
+- 인물은 항상 여성으로 그린다. 업로드 사진이 남자여도 눈·코·입의 특징만 살려 여성으로 그린다.
+- 업로드 사진에 안경이나 선글라스가 있어도 절대 그리지 않는다. 안경을 벗은 맨얼굴로 그리고, 눈은 안경 렌즈 왜곡 없이 원래 크기와 모양으로 그린다.
+
+■ 분위기
+- 스스로를 정의라고 굳게 믿는 심판자다. 하지만 그 정의는 오직 자기만의 기준이라 누구도 말릴 수 없다.
+- 흔들림 없는 확신, 망설임 없는 냉정함, 자비 없는 차분함이 느껴져야 한다.
+- 순백의 정장과 황금 권총이 성스러워 보이지만, 그래서 더 위험하고 섬뜩한 분위기다.
+
+■ 화풍
+- 실사 90%, 디지털 페인팅 10%의 실사에 가까운 세미실사다.
+- 얼굴, 피부, 머리카락, 원단은 실제 사진처럼 사실적으로 표현한다. 피부 모공과 결, 머리카락 한 올 한 올, 새틴 원단의 광택, 은색 장식과 황금 권총의 금속 반사까지 실사 수준으로 묘사한다.
+- 일러스트 느낌은 피부 표면의 아주 미세하게 매끈한 보정감에만 살짝 남긴다.
+- 하이엔드 화보, 시네마틱 인물 사진 퀄리티로 표현한다. 85mm 렌즈, 얕은 심도 느낌이다.
+- 인물은 화이트·실버에 안쪽 셔츠만 블랙이고, 배경은 어두운 차콜이다. 색 포인트는 황금색 눈동자와 황금 권총, 연한 코랄 립뿐이다.
+
+■ 구도
+- 세로 9:16 비율이다.
+- 머리끝부터 허벅지 중간까지 보이는 3/4 샷이다. 인물이 화면 중앙에 크게 들어온다.
+- 8.5등신 비율이다. 머리 하나 크기 대비 전신이 8.5배인 길고 늘씬한 모델 비율로 그린다.
+- 얼굴이 작게 나오는 구도지만, 얼굴을 처음부터 작게 그리지 않는다. 얼굴을 크고 정밀하게 완성한 뒤 비율 그대로 축소해 8.5등신에 맞게 배치한다. 축소된 뒤에도 이목구비가 또렷해야 한다.
+
+■ 체형
+- 키가 크고 다리가 아주 긴 8.5등신 여성 체형이다.
+- 볼륨 있는 글래머 몸매다. 풍만한 가슴, 잘록한 허리, 둥글게 이어지는 골반과 허벅지 곡선을 강조한다.
+- 조끼가 가슴 볼륨을 따라 몸에 딱 맞게 핏되고, 허리는 잘록하게 조여 굴곡이 또렷하게 드러난다.
+- 슬랙스는 골반과 허벅지 라인을 따라 매끈하게 떨어진다.
+- 목은 길고 가늘며, 어깨와 팔은 가늘고 여성스럽다.
+
+■ 포즈
+- 정면을 향해 서 있다. 몸통은 아주 살짝 비스듬하다.
+- 화면 왼쪽 팔(인물의 오른팔)을 보는 사람 쪽으로 곧게 뻗어 황금 권총을 한 손으로 겨눈다. 총구가 정면의 보는 사람을 향한다.
+- 권총을 쥔 손은 원근감으로 살짝 크게 보이며, 검지는 방아쇠울 옆에 곧게 펴서 걸친다. 손가락은 다섯 개로 자연스럽고 정확하게 그린다.
+- 다른 팔은 몸 옆으로 자연스럽게 내리고 손끝을 가볍게 편다.
+- 고개는 정면에서 아주 살짝 기울이고 턱을 약간 든다.
+- 시선은 권총 너머로 카메라(보는 사람)를 똑바로 응시한다.
+
+■ 표정
+- 눈꺼풀을 살짝 내린 차갑고 흔들림 없는 눈빛이다.
+- 입꼬리만 아주 옅게 올라간 평온한 미소다. 자신이 옳다고 확신하는 사람의 여유다.
+- 분노나 광기 없이 담담한데, 그 담담함이 오히려 섬뜩하다.
+
+■ 눈
+- 녹인 금처럼 깊고 선명한 황금색 눈동자다. 빛을 받아 은은하게 빛나고, 홍채에 가는 금빛 결이 보인다.
+
+■ 메이크업
+- 창백하고 투명한 피부톤
+- 은빛이 도는 은은한 아이섀도와 가는 아이라인
+- 연한 코랄 립, 촉촉한 광택
+
+■ 헤어
+- 허리 아래까지 내려오는 아주 긴 실버화이트 머리다. 차분한 생머리에 끝만 살짝 흩어진다.
+- 눈썹을 살짝 덮는 가벼운 앞머리와 얼굴 양옆으로 길게 내려오는 옆머리가 있다.
+- 바람에 머리카락이 양옆과 뒤로 넓게 흩날린다.
+- 머리카락은 실제 모발처럼 윤기와 잔머리가 살아 있고, 빛을 받은 부분은 은색으로 반짝인다.
+
+■ 무기
+- 황금색 자동 권총이다. 슬라이드와 몸체 전체가 광택 나는 금으로 되어 있다.
+- 슬라이드 옆면에 섬세한 덩굴·십자 문양 인그레이빙이 새겨져 있다.
+- 손잡이는 하얀 진주빛 그립이다.
+- 실제 금속처럼 무게감 있고 날카로운 반사광이 맺힌다.
+
+■ 액세서리
+- 양쪽 귀에 길게 늘어지는 은색 십자가 모양 드롭 귀걸이를 한다. 실제 금속처럼 반짝인다.
+- 얼굴에는 안경 등 어떤 액세서리도 착용하지 않는다.
+
+■ 의상 (화이트 수트 + 블랙 셔츠 + 실버 장식)
+- 검은 드레스 셔츠: 뾰족한 칼라, 맨 위 단추까지 채움, 은은한 광택의 실크 질감. 하얀 조끼와 재킷 사이로 검은 칼라와 가슴 부분이 선명하게 대비된다.
+- 은회색 실크 넥타이: 은색 십자별 모양 타이핀을 꽂음
+- 하얀 조끼: 몸에 딱 맞는 크롭 기장, 가장자리에 은색 파이핑, 은색 둥근 금속 단추 4개, 양옆 허리 부분에 은색 필리그리 금속 장식, 조끼 밑단과 바지 사이로 허리 맨살이 아주 살짝 보임
+- 하얀 롱 재킷: 앞을 연 채로 입음, 무릎 근처까지 오는 긴 코트 기장, 라펠과 가장자리에 은색 파이핑, 어깨와 가슴 양쪽에 은색 별·십자 문장 자수, 소매 끝에 은색 띠 장식 두 줄
+- 허리: 하얀 가죽 벨트, 은색 별 모양 장식 버클
+- 하의: 하이웨이스트 하얀 슬랙스, 앞 주름이 선명함
+- 수트 원단은 광택 있는 새틴 질감이다.
+
+■ 배경
+- 장식이나 사물이 전혀 없는 단순한 배경이다.
+- 짙은 차콜에서 가장자리로 갈수록 블랙이 되는 부드러운 그라데이션이다.
+- 인물 뒤쪽만 아주 은은하게 밝아 하얀 인물이 어둠 속에서 떠오르듯 보인다.
+
+■ 조명
+- 정면 위에서 오는 차갑고 부드러운 흰빛 키라이트다.
+- 하얀 의상과 실버 헤어가 어둠 속에서 은은하게 빛나 보인다.
+- 머리카락과 어깨 윤곽에 은은한 흰빛 림라이트를 준다.
+- 황금 권총과 황금 눈동자에 작고 선명한 하이라이트가 맺힌다.
+- 얼굴 아래쪽과 목에 옅은 그림자를 드리워 차가운 긴장감을 더한다.
+
+■ 금지
+- 안경, 선글라스, 안경 자국
+- 하얀 셔츠
+- 마법진, 빛 입자, 별 장식 등 배경 속 사물이나 효과
+- 사진 속 각도·표정·헤어·눈동자 색 반영
+- 얼굴을 처음부터 작고 뭉개지게 그리기
+- 머리가 큰 비율, 짧은 다리
+- 마르고 평평한 체형, 남성적인 어깨와 체형
+- 손가락 개수 오류, 뒤틀린 손, 총을 잘못 쥔 손
+- 활짝 웃는 표정, 광기 어린 표정, 화난 표정
+- 애니메이션·만화 느낌, 플라스틱 같은 매끈한 피부, 과한 일러스트 붓 터치
+- 피, 상처, 텍스트, 로고, 워터마크
+```
+
+---
+
+## 3. 결과물 비교 갤러리
+
+| 생성 모델 | 생성 결과 이미지 |
+| :--- | :--- |
+| **제미나이 (Gemini)** | ![제미나이 결과](./제미나이.jpg) |
+| **ChatGPT (DALL-E 3)** | ![GPT 결과](./GPT.jpg) |

diff --git a/README.md b/README.md
@@ -2,10 +2,11 @@
 
 AI 이미지 생성 프롬프트 모음. 이미지를 누르면 프롬프트 전문과 Gemini · GPT 결과 비교를 볼 수 있습니다.
 
-<sub>149 prompts · Gemini / GPT · 최신순</sub>
+<sub>150 prompts · Gemini / GPT · 최신순</sub>
 
 <table>
   <tr>
+    <td align="center" valign="top" width="25%"><a href="./화이트%20슈트/White_Suit_Golden_Pistol_Portrait_Prompt.md" title="순백 수트와 실버 롱헤어, 황금 권총을 겨눈 세미실사 포트레이트"><img src="./thumbs/150.jpg" width="200" alt="화이트 수트"></a><br><sub>150</sub><br><a href="./화이트%20슈트/White_Suit_Golden_Pistol_Portrait_Prompt.md">화이트 수트</a></td>
     <td align="center" valign="top" width="25%"><a href="./나의%20꽃요정/My_Flower_Botanical_Poster_Hanbok_Minimi_Prompt.md" title="나에게 어울리는 꽃과 꽃말의 식물 도감풍 한복 미니미 포스터"><img src="./thumbs/149.jpg" width="200" alt="나의 꽃 요정"></a><br><sub>149</sub><br><a href="./나의%20꽃요정/My_Flower_Botanical_Poster_Hanbok_Minimi_Prompt.md">나의 꽃 요정</a></td>
   </tr>
   <tr>
